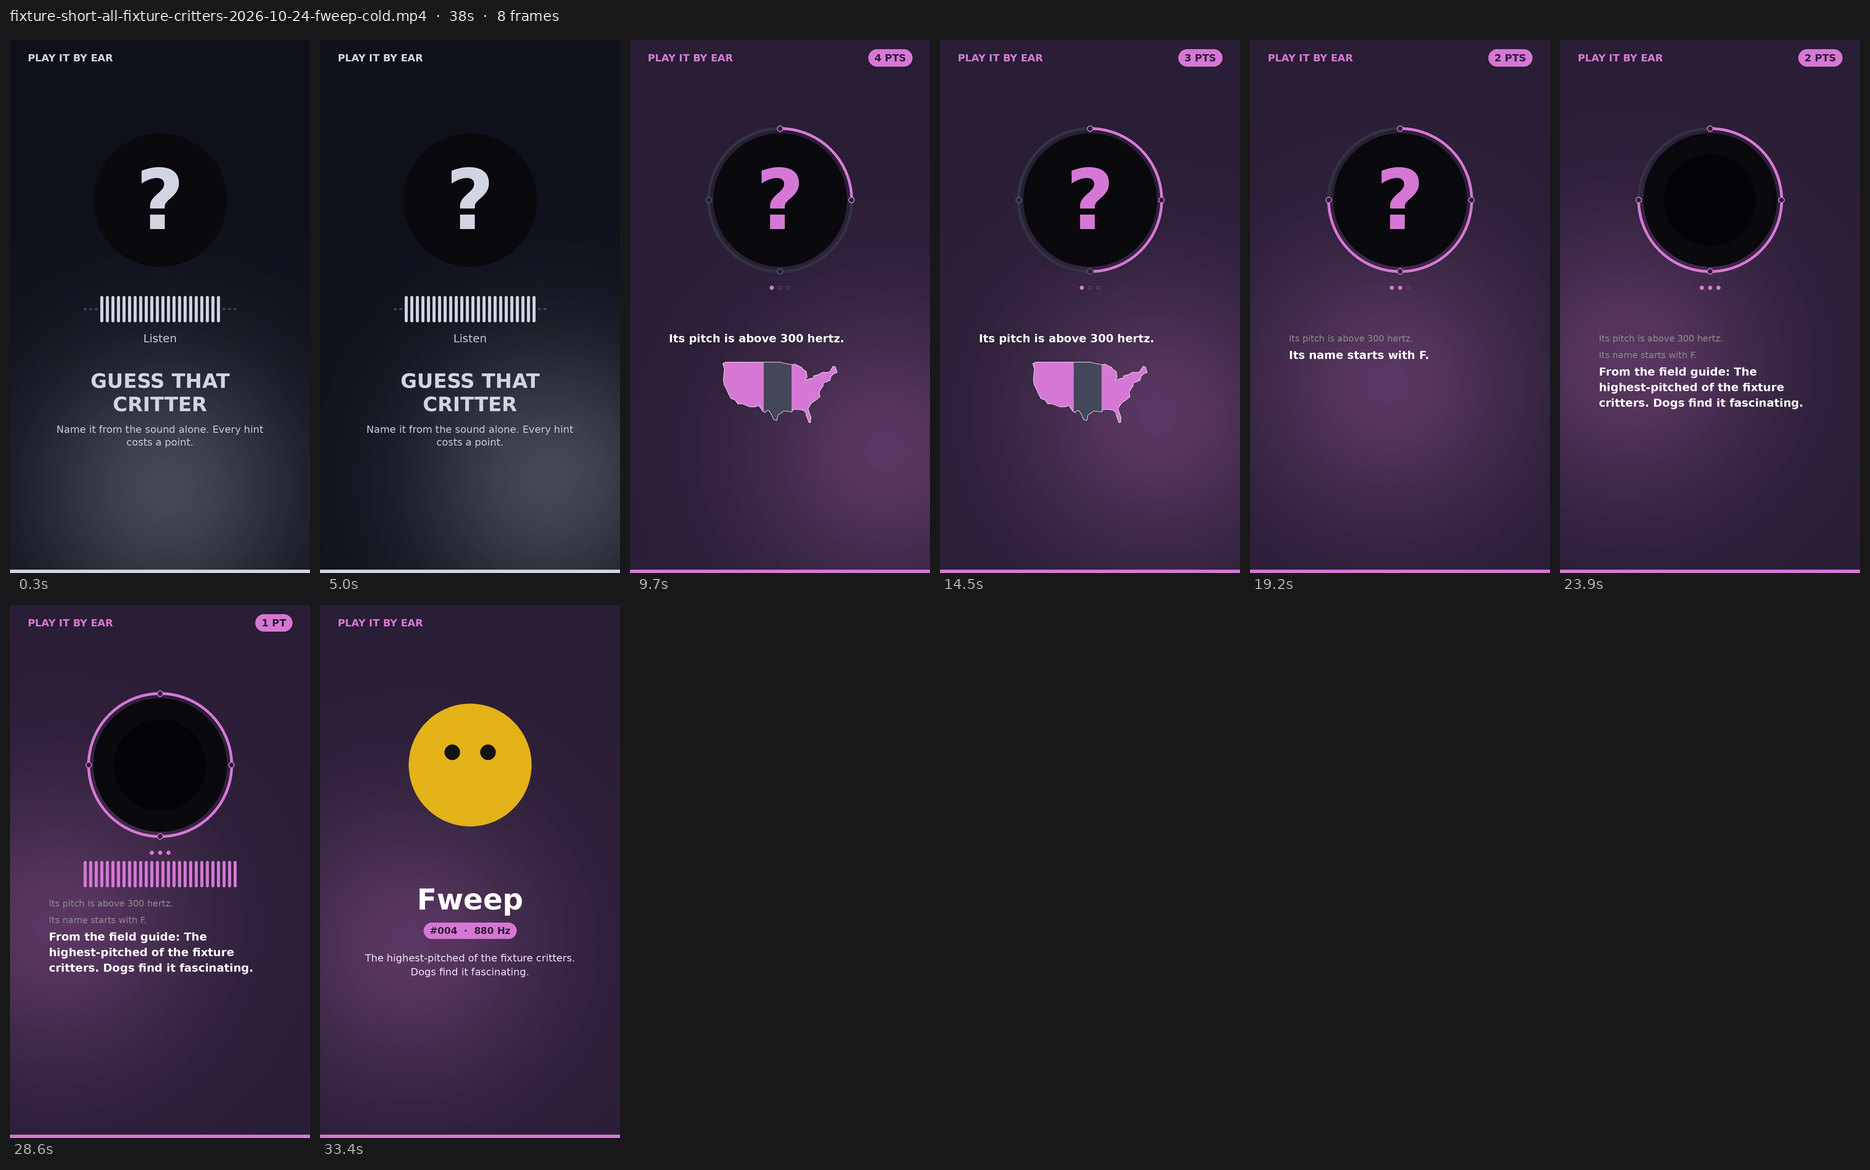
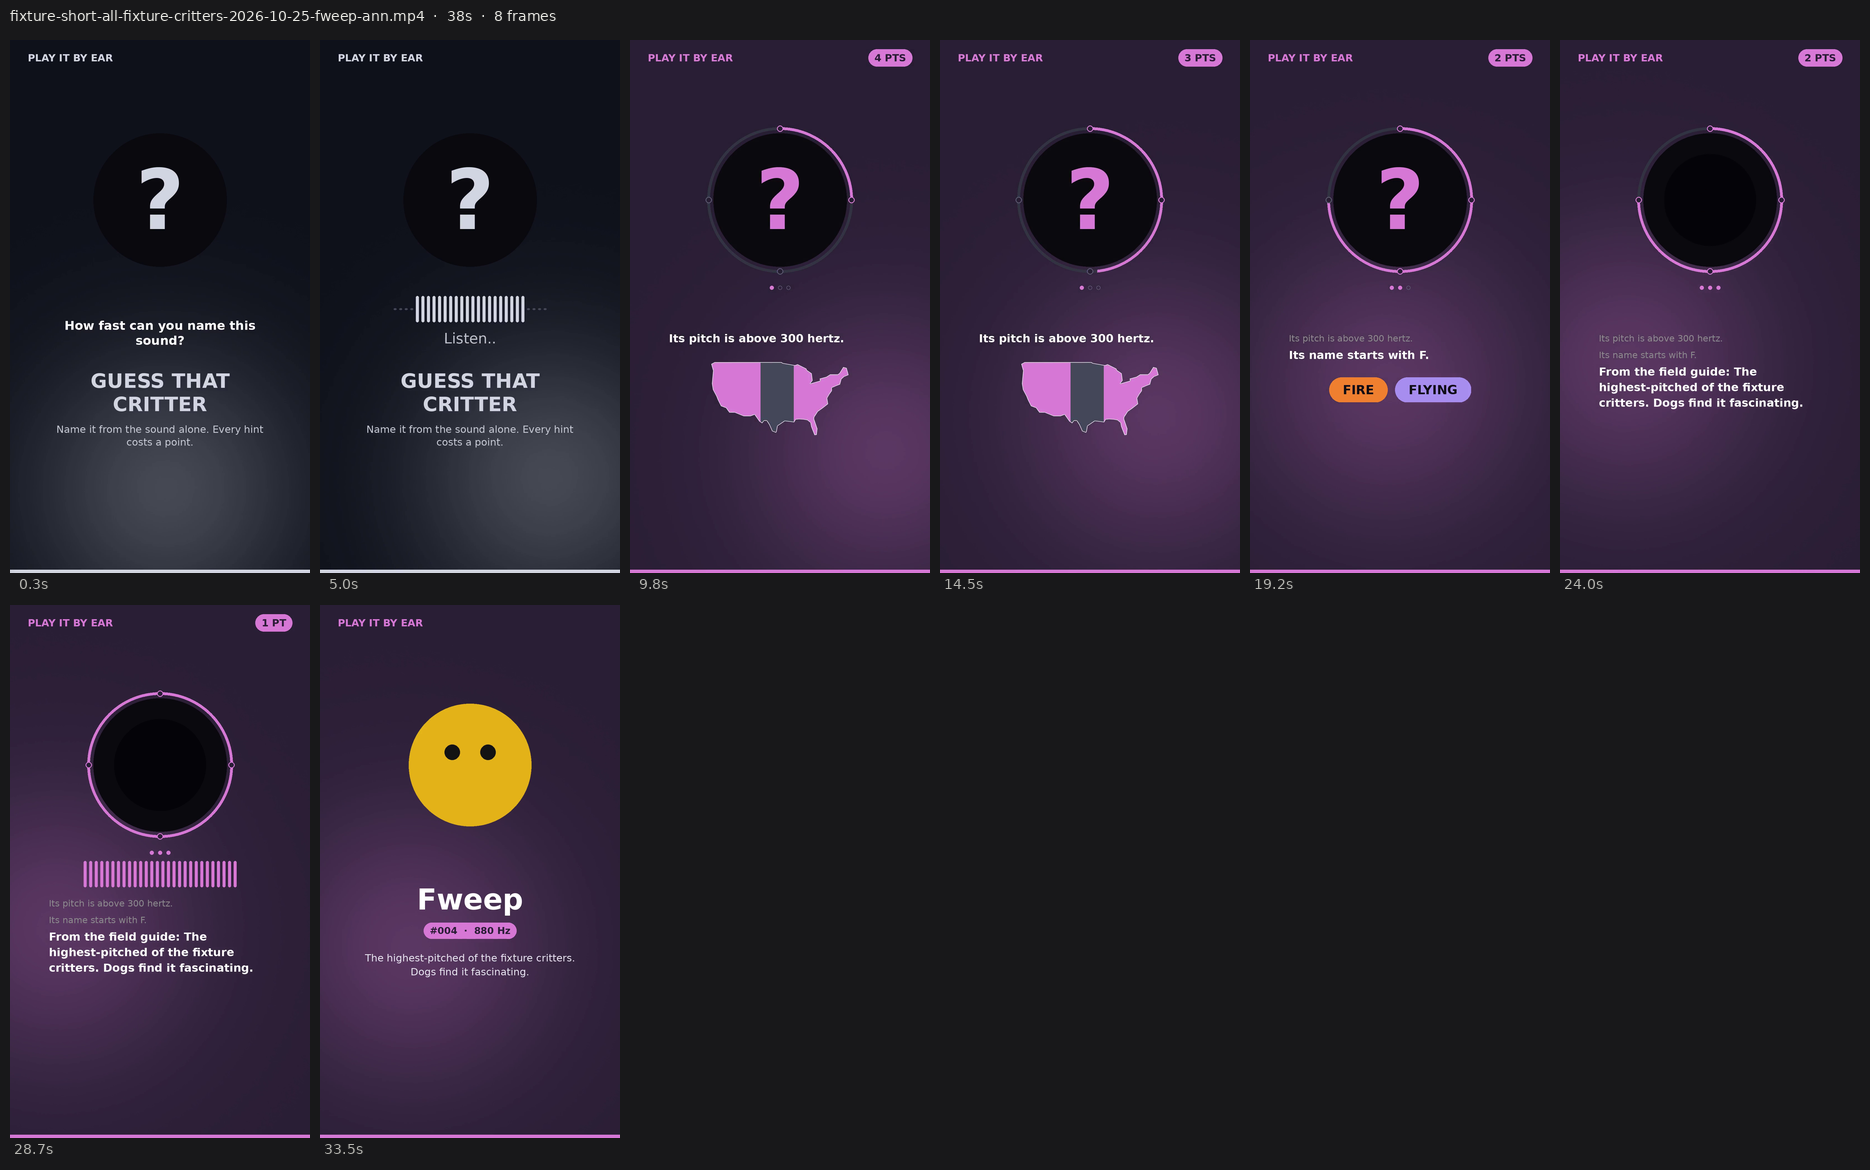
Hint visuals: map fills the slot under the hint (up to 300 px); "Listen…" larger with a slow ellipsis + swell
Claude-Session: https://claude.ai/code/session_01BFXit6Z7ktq6UZ5wsDTBrR

diff --git a/quizbot/render/scene.py b/quizbot/render/scene.py
@@ -393,7 +393,13 @@ class Scene:
                         y += int(72 * self.u)
             elif st["status"] and not st["hints"]:
                 if self.portrait:
-                    self.text(d, (g["art"][0], y), st["status"], 40, fill=(200, 202, 214), bold=False, anchor="mm")
+                    # "Listen" breathes: a trailing ellipsis that fills one dot at a time (2 s cycle) and a very
+                    # slow brightness swell, so the frame is alive without anything moving across it
+                    status = st["status"]
+                    if status == "Listen":
+                        status = "Listen" + "." * (1 + int((st["t"] % 2.0) / 2.0 * 3))
+                    pulse = 0.82 + 0.18 * (0.5 + 0.5 * math.sin(st["t"] * 2 * math.pi / 2.4))
+                    self.text(d, (g["art"][0], y), status, 52, fill=(200, 202, 214), bold=False, anchor="mm", alpha=pulse)
                 else:
                     self.text(d, (x, g["art"][1]), st["status"], 44, fill=(200, 202, 214), bold=False, anchor="lm")
             hints = st["hints"]
@@ -475,9 +481,9 @@ class Scene:
                 if spec:
                     lines, size, _ = new_lay[latest]
                     block_bottom = new_y[latest] + len(lines) * int(size * 1.4 * self.u) + int(24 * self.u)
-                    vh = int(230 * self.u)
-                    limit = int(self.H * 0.73) if self.portrait else int(self.H * 0.93)
-                    if block_bottom + vh <= limit:
+                    limit = int(self.H * 0.745) if self.portrait else int(self.H * 0.93)
+                    vh = min(int((300 if self.portrait else 250) * self.u), limit - block_bottom)   # as big as the slot allows
+                    if vh >= int(130 * self.u):
                         layer = hint_visuals.render(spec, vh, accent, self.fonts_dir)
                         if layer is not None:
                             if p_new < 1:

diff --git a/quizbot/render/visuals.py b/quizbot/render/visuals.py
@@ -26,7 +26,11 @@ US = [(-124.7, 48.4), (-123.3, 49.0), (-95.2, 49.0), (-94.6, 48.7), (-89.5, 48.0
       (-106.5, 31.8), (-108.2, 31.3), (-111.1, 31.3), (-114.8, 32.5), (-117.1, 32.5), (-118.5, 34.0), (-120.6, 34.6),
       (-121.9, 36.6), (-122.5, 37.8), (-124.0, 40.0), (-124.4, 42.0), (-123.9, 46.2), (-124.7, 48.4)]
 LON0, LON1, LAT0, LAT1 = -125.0, -66.5, 24.5, 49.5
-# region bands by longitude: W = Rockies and westward, C = the Plains, E = Mississippi eastward
+# Region bands by longitude. These illustrate the *hint*, which is coarse by design (the curated list gives each
+# species E/W/C letters, not a range polygon): W = the Mountain and Pacific states (west of ~104° W, the
+# Rockies' eastern front), C = the Great Plains (104° W to the Mississippi, ~90° W), E = everything east of the
+# Mississippi. "Eastern United States" therefore means east of the Mississippi, coast to river, not just the
+# seaboard; a species lit E+W but not C is one with a gap across the Plains (e.g. Barred Owl).
 BANDS = {"W": (LON0, -104.0), "C": (-104.0, -90.0), "E": (-90.0, LON1)}
 
 SIZE_LADDER = ["sparrow", "robin", "crow", "goose"]
